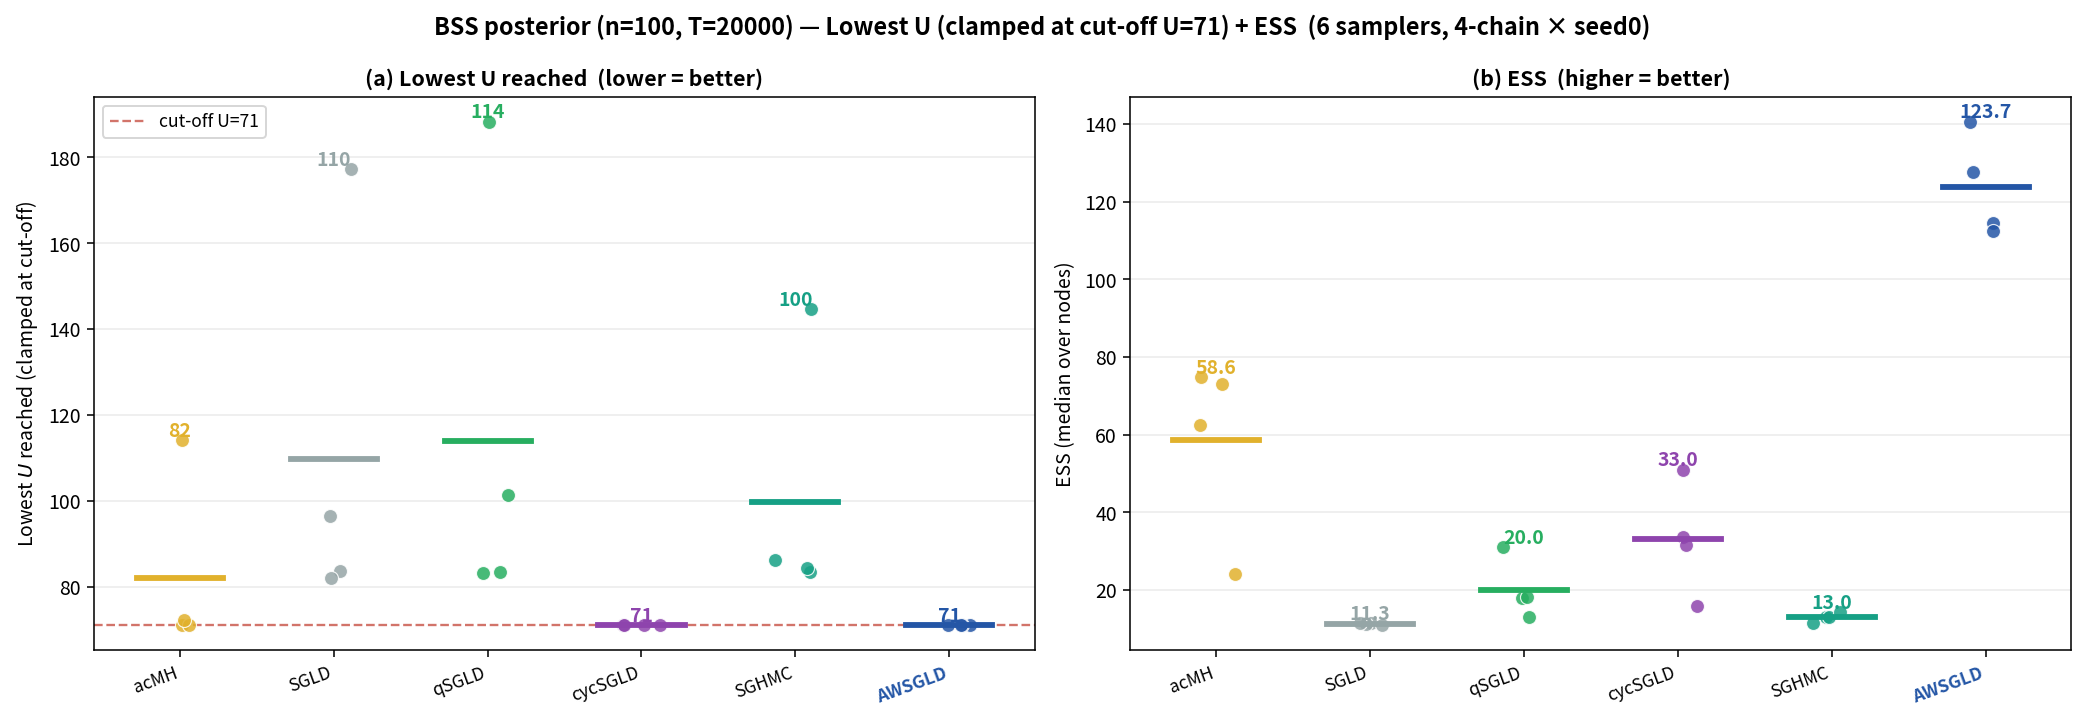
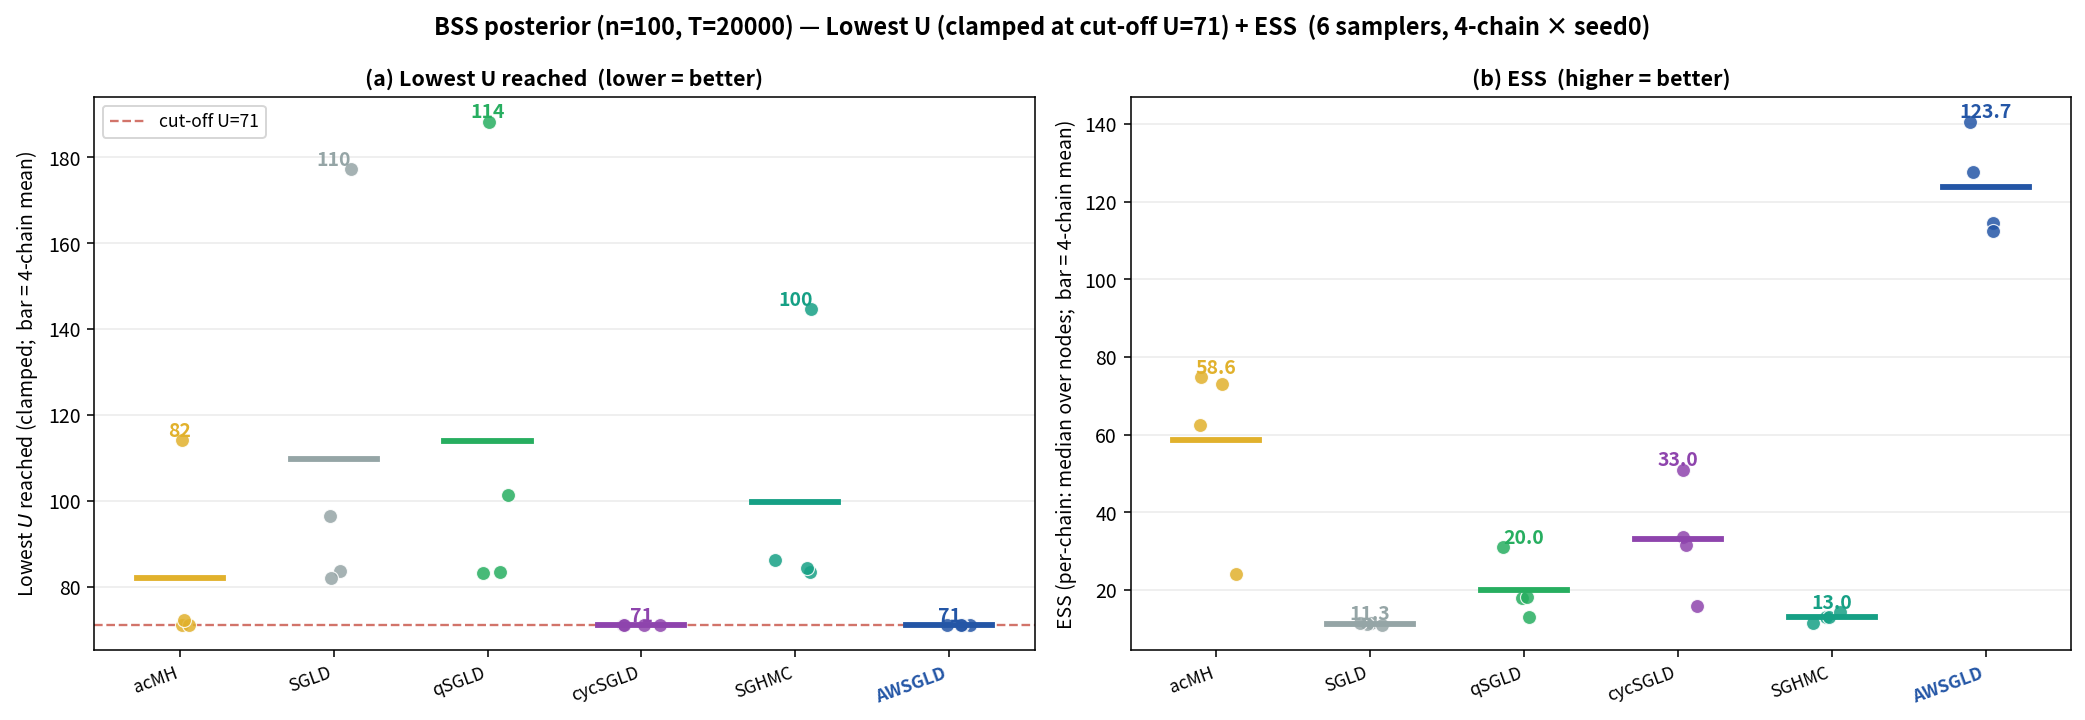
fix: strip y축 라벨 명확화 (점=연쇄별 median-over-nodes, 막대=4연쇄 mean)

diff --git a/simulation/study_a0/make_strip_unified.py b/simulation/study_a0/make_strip_unified.py
@@ -23,8 +23,8 @@ METHODS = [m for m in ORDER if m in low]; NC = len(low["AWSGLD"])
 
 fig, axes = plt.subplots(1, 2, figsize=(15, 5.2)); rng = np.random.RandomState(0)
 for ax, dic, ylab, ttl, fmt, hl in [
-        (axes[0], low, "Lowest $U$ reached (clamped at cut-off)", "(a) Lowest U reached  (lower = better)", "{:.0f}", CUT),
-        (axes[1], ess, "ESS (median over nodes)", "(b) ESS  (higher = better)", "{:.1f}", None)]:
+        (axes[0], low, "Lowest $U$ reached (clamped;  bar = 4-chain mean)", "(a) Lowest U reached  (lower = better)", "{:.0f}", CUT),
+        (axes[1], ess, "ESS (per-chain: median over nodes;  bar = 4-chain mean)", "(b) ESS  (higher = better)", "{:.1f}", None)]:
     for i, m in enumerate(METHODS):
         v = np.array(dic[m]); xs = i + (rng.rand(len(v)) - 0.5) * 0.28
         ax.scatter(xs, v, s=52, color=COL[m], alpha=0.85, edgecolor="white", lw=0.6, zorder=3)
